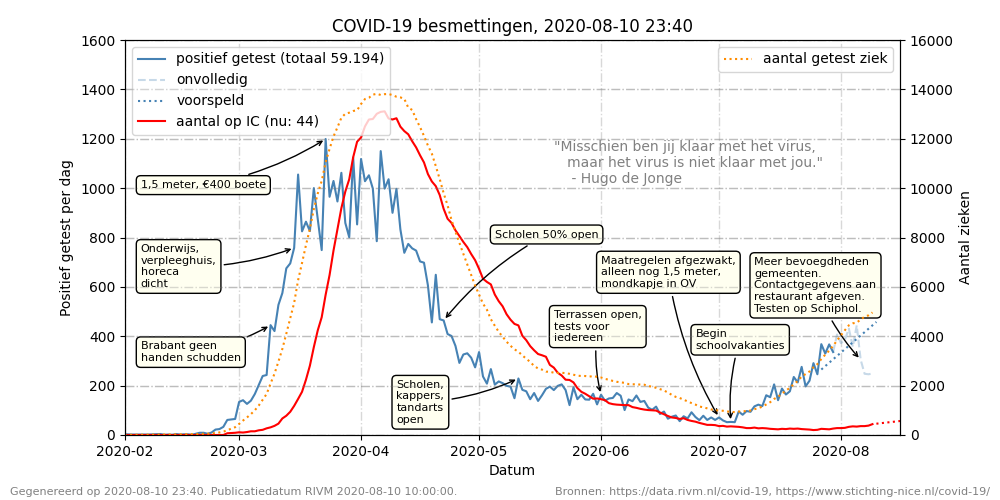
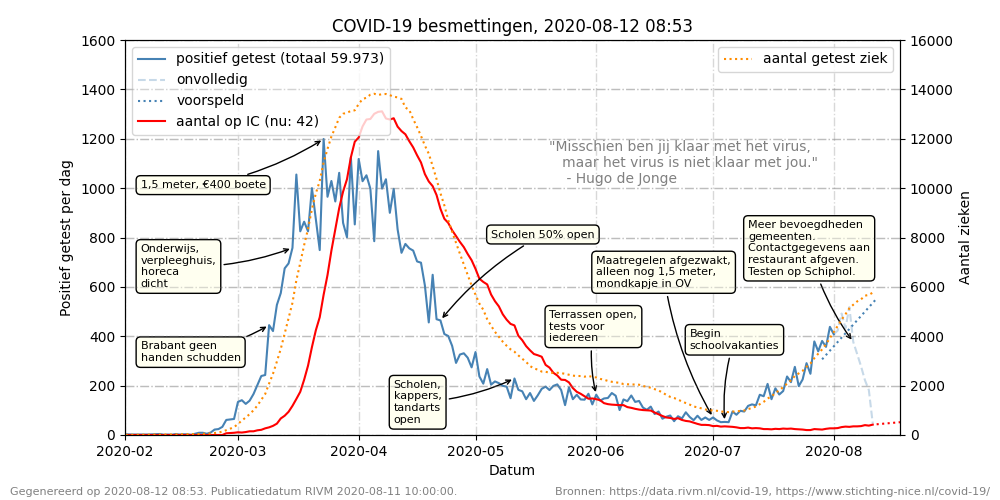
Ran getDailyExcelData

diff --git a/scripts/createGraph.py b/scripts/createGraph.py
@@ -226,7 +226,7 @@ anotate(ax1, metenisweten, "2020-07-01",
 anotate(ax1, metenisweten, "2020-07-04",
         'Begin\nschoolvakanties', "2020-06-25", 350)
 anotate(ax1, metenisweten, "2020-08-06",
-        'Meer bevoegdheden\ngemeenten.\nContactgegevens aan\nrestaurant afgeven.\nTesten op Schiphol.', "2020-07-10", 500)
+        'Meer bevoegdheden\ngemeenten.\nContactgegevens aan\nrestaurant afgeven.\nTesten op Schiphol.', "2020-07-10", 650)
 
 ax1.text(parser.parse("2020-05-20"), 1020, "\"Misschien ben jij klaar met het virus,\n   maar het virus is niet klaar met jou.\"\n    - Hugo de Jonge", color="gray")
 
